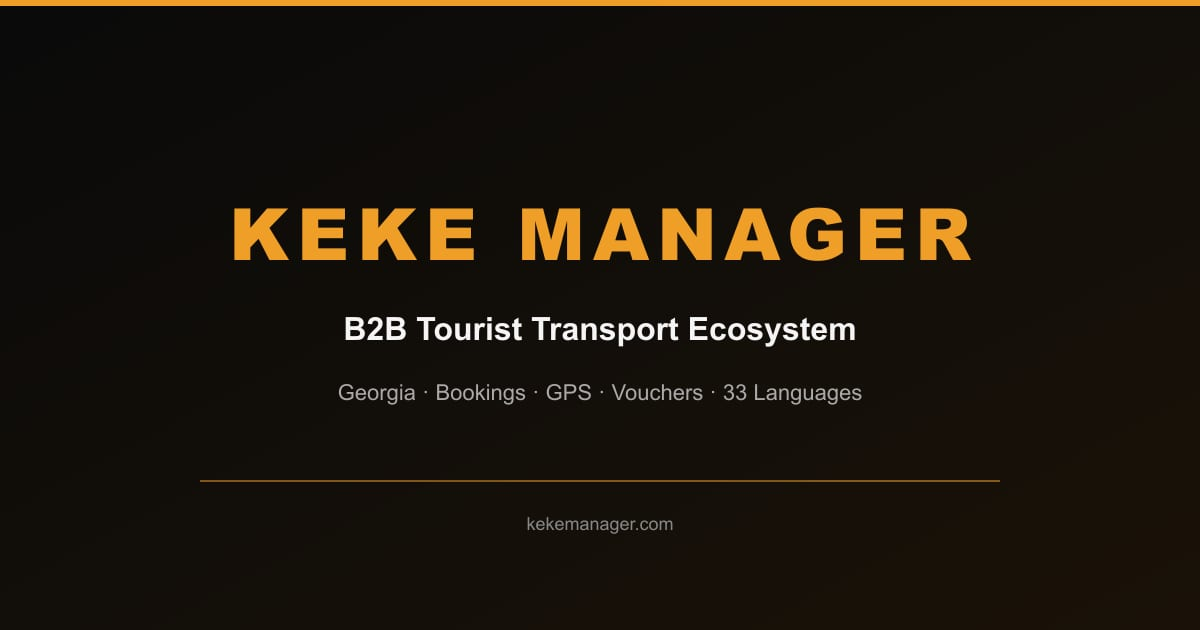
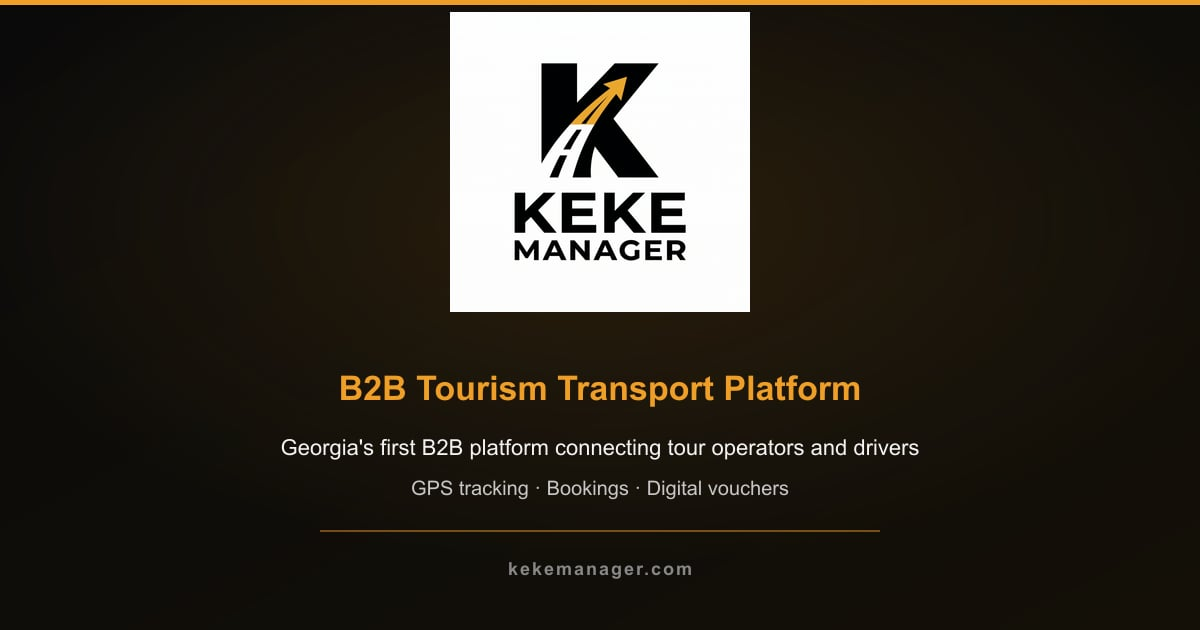
feat: Open Graph meta tags and social preview image for kekemanager.com
Add consistent og:title, description, image, and Twitter cards for link previews on LinkedIn, WhatsApp, Telegram, and Facebook. Regenerate 1200x630 og-image.jpg with dark background, logo, and tagline.

diff --git a/app/+html.tsx b/app/+html.tsx
@@ -3,7 +3,9 @@ import Constants from 'expo-constants';
 import type { PropsWithChildren } from 'react';
 import {
   DEFAULT_SEO_LANG,
+  OG_DESCRIPTION,
   OG_IMAGE_URL,
+  OG_TITLE,
   SCHEMA_ORGANIZATION,
   SCHEMA_SOFTWARE_APPLICATION,
   SEO_META,
@@ -50,14 +52,12 @@ export default function Root({ children }: PropsWithChildren) {
 
         <meta property="og:type" content="website" />
         <meta property="og:url" content={SITE_URL} />
-        <meta property="og:title" content={en.title} />
-        <meta
-          property="og:description"
-          content="Connecting tour companies, guide-drivers, fleet owners, and hired drivers in Georgia. Free for companies."
-        />
+        <meta property="og:title" content={OG_TITLE} />
+        <meta property="og:description" content={OG_DESCRIPTION} />
         <meta property="og:image" content={OG_IMAGE_URL} />
         <meta property="og:image:width" content="1200" />
         <meta property="og:image:height" content="630" />
+        <meta property="og:image:alt" content={OG_TITLE} />
         <meta property="og:locale" content={meta.ogLocale} />
         <meta property="og:locale:alternate" content="en_US" />
         <meta property="og:locale:alternate" content="ru_RU" />
@@ -65,11 +65,8 @@ export default function Root({ children }: PropsWithChildren) {
 
         <meta name="twitter:card" content="summary_large_image" />
         <meta name="twitter:url" content={SITE_URL} />
-        <meta name="twitter:title" content={en.title} />
-        <meta
-          name="twitter:description"
-          content="Connecting tour companies, guide-drivers, fleet owners in Georgia. Free for companies."
-        />
+        <meta name="twitter:title" content={OG_TITLE} />
+        <meta name="twitter:description" content={OG_DESCRIPTION} />
         <meta name="twitter:image" content={OG_IMAGE_URL} />
 
         <link rel="icon" type="image/png" href="/favicon.ico" />

diff --git a/components/landing/LandingPage.tsx b/components/landing/LandingPage.tsx
@@ -13,7 +13,9 @@ import { useSafeAreaInsets } from 'react-native-safe-area-context';
 import { getLandingCopy } from '../../lib/landingCopy';
 import {
   isSeoLang,
+  OG_DESCRIPTION,
   OG_IMAGE_URL,
+  OG_TITLE,
   resolveSeoLang,
   SITE_URL,
 } from '../../lib/seoMeta';
@@ -90,10 +92,13 @@ function useLandingMeta(copy: ReturnType<typeof getLandingCopy>) {
         el.setAttribute('content', content);
       };
       setMeta('description', copy.metaDescription);
-      setMeta('og:title', copy.metaTitle, true);
-      setMeta('og:description', copy.metaDescription, true);
-      setMeta('og:image', 'https://kekemanager.com/logo.webp', true);
-      setMeta('og:url', 'https://kekemanager.com/', true);
+      setMeta('og:title', OG_TITLE, true);
+      setMeta('og:description', OG_DESCRIPTION, true);
+      setMeta('og:image', OG_IMAGE_URL, true);
+      setMeta('og:url', SITE_URL, true);
+      setMeta('twitter:title', OG_TITLE);
+      setMeta('twitter:description', OG_DESCRIPTION);
+      setMeta('twitter:image', OG_IMAGE_URL);
       const link = document.querySelector('link[rel="canonical"]') ?? document.createElement('link');
       link.setAttribute('rel', 'canonical');
       link.setAttribute('href', 'https://kekemanager.com/');

diff --git a/lib/seoMeta.ts b/lib/seoMeta.ts
@@ -3,6 +3,11 @@
 export const SITE_URL = 'https://kekemanager.com';
 export const OG_IMAGE_URL = `${SITE_URL}/og-image.jpg`;
 
+/** Social share preview (LinkedIn, WhatsApp, Telegram, Facebook). */
+export const OG_TITLE = 'KEKE Manager — B2B Tourism Transport Platform';
+export const OG_DESCRIPTION =
+  "Georgia's first B2B platform connecting tour operators and drivers. GPS tracking, bookings, digital vouchers.";
+
 export type SeoLang = 'ka' | 'en' | 'ru';
 
 export type SeoMetaEntry = {
